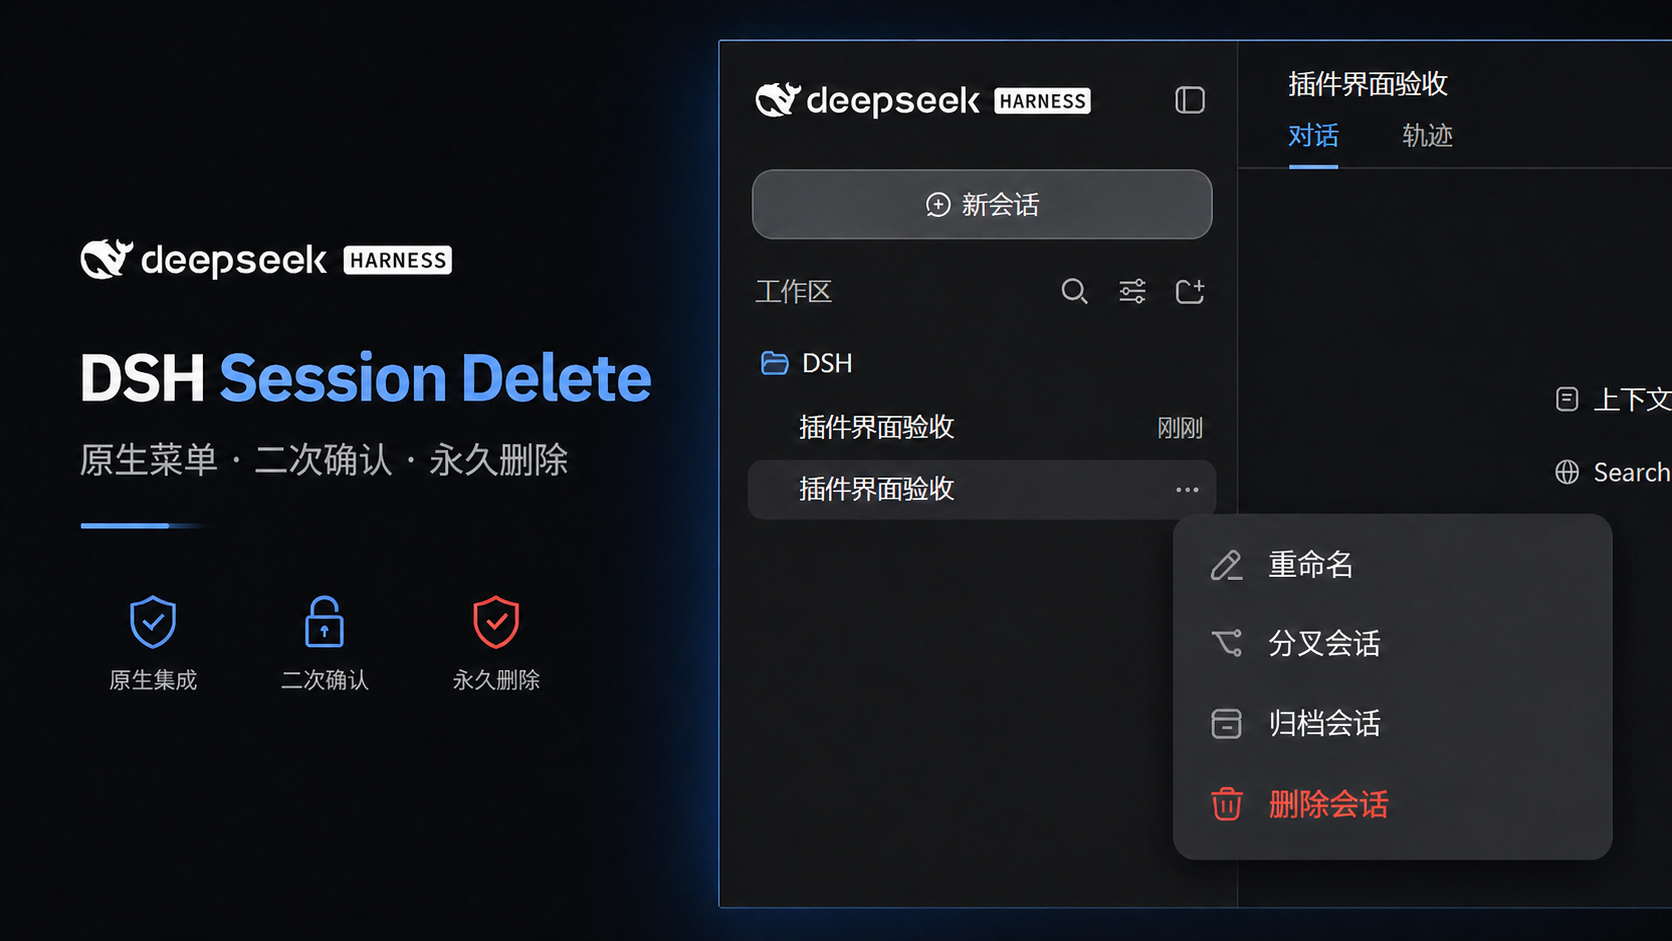
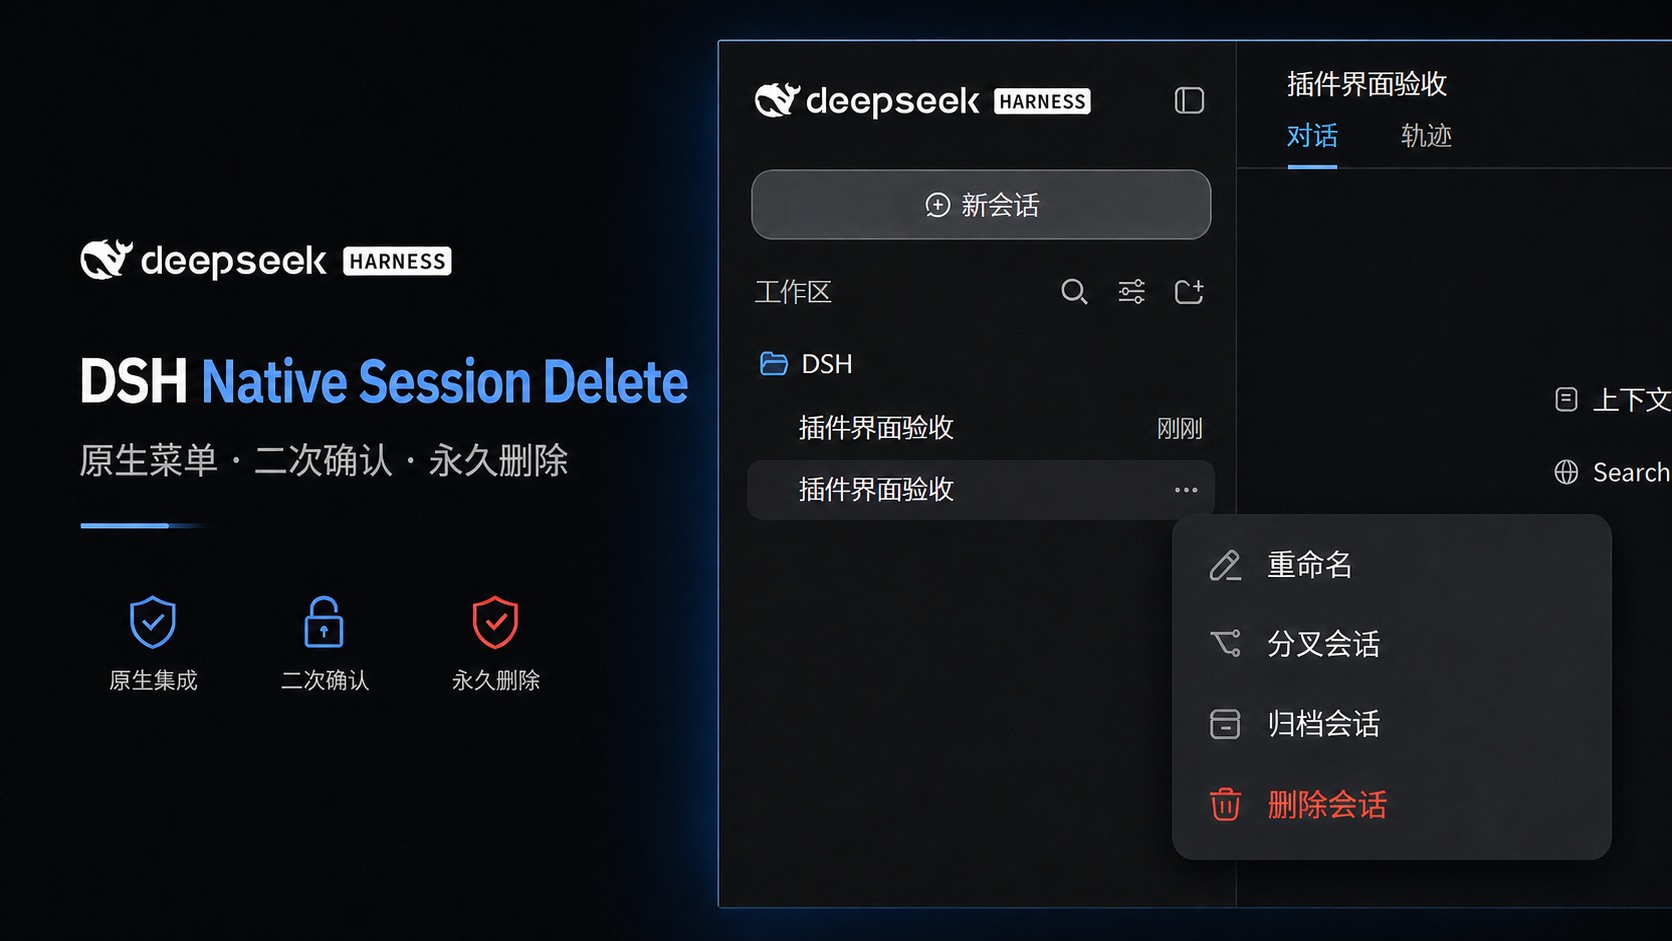
feat: publish native session delete through npm

diff --git a/lib/client.js b/lib/client.js
@@ -1,4 +1,4 @@
-// Modified from @deepseek-ai/dsh-client-ui-workspace 0.1.0-rc.8 by DSH Session Delete. See THIRD_PARTY_NOTICES.md.
+// Modified from @deepseek-ai/dsh-client-ui-workspace 0.1.0-rc.8 by DSH Native Session Delete. See THIRD_PARTY_NOTICES.md.
 window.__ModuleLoader__.load({
 	id: "dsh-native-session-delete",
 	factory: (require) => {

diff --git a/README.en.md b/README.en.md
@@ -1,27 +1,28 @@
 <div align="center">
 
-# DSH Session Delete
+# DSH Native Session Delete
 
 **Bring permanent session deletion to the native DeepSeek Harness menu.**
 
-Native dark menu · Second confirmation · Safe stop for running work · In-place list update
+Native dark menu · Second confirmation · Permanent delete · In-place list update
 
-[![Release](https://img.shields.io/github/v/release/WSL043/dsh-session-delete?display_name=tag&style=flat-square)](https://github.com/WSL043/dsh-session-delete/releases/latest)
-[![Checks](https://img.shields.io/github/actions/workflow/status/WSL043/dsh-session-delete/ci.yml?branch=main&label=checks&style=flat-square)](https://github.com/WSL043/dsh-session-delete/actions/workflows/ci.yml)
+[![Release](https://img.shields.io/github/v/release/WSL043/dsh-native-session-delete?display_name=tag&style=flat-square)](https://github.com/WSL043/dsh-native-session-delete/releases/latest)
+[![Checks](https://img.shields.io/github/actions/workflow/status/WSL043/dsh-native-session-delete/ci.yml?branch=main&label=checks&style=flat-square)](https://github.com/WSL043/dsh-native-session-delete/actions/workflows/ci.yml)
+[![npm](https://img.shields.io/npm/v/dsh-native-session-delete?style=flat-square)](https://www.npmjs.com/package/dsh-native-session-delete)
 [![DSH](https://img.shields.io/badge/DSH-auto--tested-2f81f7?style=flat-square)](#compatibility)
-[![License](https://img.shields.io/github/license/WSL043/dsh-session-delete?style=flat-square)](LICENSE)
+[![License](https://img.shields.io/github/license/WSL043/dsh-native-session-delete?style=flat-square)](LICENSE)
 
 [中文](README.md) · [Install](#install) · [Use](#use) · [Safety boundary](#safety-boundary)
 
 </div>
 
 <p align="center">
-  <img src="docs/assets/hero.en.png" alt="Red Delete session action in the native DeepSeek Harness dark-mode session menu">
+  <img src="https://raw.githubusercontent.com/WSL043/dsh-native-session-delete/v1.0.4/docs/assets/hero.en.png" alt="Red Delete session action in the native DeepSeek Harness dark-mode session menu">
 </p>
 
-| Native | Safe | Smooth |
+| Native | Direct | Smooth |
 | --- | --- | --- |
-| The action lives in the native session menu and keeps Archive available | A second confirmation is required; running work is stopped safely | The list updates in place without reloading the whole DSH page |
+| The action lives in the native session menu and keeps Archive available | A second confirmation permanently deletes the target; running work is stopped first | The list updates in place without reloading the whole DSH page |
 
 ## Install
 
@@ -30,25 +31,22 @@ Native dark menu · Second confirmation · Safe stop for running work · In-plac
 Open PowerShell and paste one line:
 
 ```powershell
-irm 'https://github.com/WSL043/dsh-session-delete/releases/download/v1.0.3/install.ps1' | iex
+irm 'https://github.com/WSL043/dsh-native-session-delete/releases/download/v1.0.4/install.ps1' | iex
 ```
 
 The helper checks the current directory, PATH, `DSH_PORTABLE_ROOT`, Downloads/Desktop/Documents, and up to
 three nested levels below those folders and `LocalAppData\Temp`, then calls the official DSH `plugin add`
 command once. It does not recursively scan disks, install a package manager, snapshot profiles, create a
 resident command, or download the plugin twice. It supports regular DSH and
-[DSH-Portable](https://github.com/WSL043/DSH-Portable); if several copies are found, it stops and asks for an explicit path.
-
-For a Portable copy in a custom location, provide its executable explicitly without a disk scan:
-
-```powershell
-& ([scriptblock]::Create((irm 'https://github.com/WSL043/dsh-session-delete/releases/download/v1.0.3/install.ps1'))) -DshPath 'D:\DSH-Portable\dsh.exe'
-```
+[DSH-Portable](https://github.com/WSL043/DSH-Portable). If it finds one durable installation plus disposable
+copies under Temp, it chooses the durable installation automatically. If several durable installations exist,
+the helper displays their real paths and asks for a number; no command editing or placeholder path is needed.
+If it still finds nothing, enter the actual DSH-Portable folder and rerun the same one-line command.
 
 ### Official CLI (macOS, Linux, or direct review)
 
 ```sh
-dsh plugin --profile web add "dsh-native-session-delete@https://github.com/WSL043/dsh-session-delete/releases/download/v1.0.3/dsh-native-session-delete.tgz"
+dsh plugin --profile web add dsh-native-session-delete@1.0.4
 ```
 
 The helper and direct command use the same standard bundle mechanism. The helper is only a Windows entry
@@ -59,7 +57,7 @@ bundle configuration becomes active.
 
 ### Agent installation
 
-Use the fixed-version [AGENTS.md](https://raw.githubusercontent.com/WSL043/dsh-session-delete/v1.0.3/AGENTS.md).
+Use the fixed-version [AGENTS.md](https://raw.githubusercontent.com/WSL043/dsh-native-session-delete/v1.0.4/AGENTS.md).
 It defines installation, update, acceptance, uninstall, and safety boundaries. Do not use the `main`
 branch document as an installation contract.
 
@@ -71,12 +69,12 @@ branch document as an installation contract.
    **Cancel** to leave it unchanged.
 
 <p align="center">
-  <img src="docs/assets/confirm-delete.en.png" width="560" alt="English dark-mode permanent deletion confirmation dialog">
+  <img src="https://raw.githubusercontent.com/WSL043/dsh-native-session-delete/v1.0.4/docs/assets/confirm-delete.en.png" width="560" alt="English dark-mode permanent deletion confirmation dialog">
   <br><sub>Permanent deletion cannot be undone; the dialog identifies the target session.</sub>
 </p>
 
 Once active, the plugin reuses DSH lifecycle and session-storage capabilities. If work is still running,
-it is stopped safely and allowed to settle before the target session is deleted. The session list then
+it is stopped and allowed to settle before the target session is deleted. The session list then
 updates in place without reloading the whole DSH page.
 
 ## Safety boundary
@@ -119,10 +117,10 @@ Structural upstream changes still require a code fix; automation never guesses a
 
 ## Update and uninstall
 
-Update by rerunning the quick installer or using the new release in the same `add` command. For v1.0.3:
+Update by rerunning the quick installer or installing the new npm version. For v1.0.4:
 
 ```sh
-dsh plugin --profile web add "dsh-native-session-delete@https://github.com/WSL043/dsh-session-delete/releases/download/v1.0.3/dsh-native-session-delete.tgz"
+dsh plugin --profile web add dsh-native-session-delete@1.0.4
 ```
 
 Uninstall removes only this plugin's bundle layer and never deletes sessions:
@@ -137,7 +135,7 @@ workflow after installing, updating, or uninstalling so the configuration is rec
 
 ## Support and license
 
-Open a [GitHub Issue](https://github.com/WSL043/dsh-session-delete/issues) for ordinary problems. Report
+Open a [GitHub Issue](https://github.com/WSL043/dsh-native-session-delete/issues) for ordinary problems. Report
 security issues privately as described in [SECURITY.md](SECURITY.md).
 
 MIT. See [THIRD_PARTY_NOTICES.md](THIRD_PARTY_NOTICES.md) for the modified upstream client and its license

diff --git a/AGENTS.md b/AGENTS.md
@@ -6,13 +6,14 @@ or remove `dsh-native-session-delete` in a selected DeepSeek Harness profile.
 ## Safety and responsibility boundary
 
 - Confirm the target DSH installation and profile. Use `web` only when it is the user's target.
-- Use the fixed v1.0.3 Release assets below; never substitute a moving branch or an unreviewed URL.
+- Use the fixed v1.0.4 package below; never substitute a moving branch or an unreviewed source.
 - Do not print session contents, full profile files, transcript paths, credentials, or other private data.
 - Do not start, stop, or restart DSH without explicit permission.
 - Preserve all sessions, unrelated plugins, and user-owned profile changes.
 - Never delete a session as an installation test unless the user explicitly selects a disposable session
   and confirms the destructive test.
-- If more than one DSH installation is present, ask which installation is the target before changing it.
+- Prefer one durable user installation over disposable copies under `LocalAppData\Temp`. If more than one
+  durable DSH installation remains, ask which installation is the target before changing it.
 
 Permanent deletion is irreversible. The Agent must not claim that this plugin provides secure erasure:
 external attachments, caches, logs, backups, cloud copies, and non-JSONL stores are outside its scope.
@@ -21,16 +22,16 @@ requirements. A cancelled confirmation is the safe default and must not send a d
 
 ## Fixed package and standard bundle
 
-The v1.0.3 package is a standard DSH bundle with a `dsh.bundle` profile patch. Its exact package spec is:
+The v1.0.4 package is a standard DSH bundle with a `dsh.bundle` profile patch. Its exact package spec is:
 
 ```text
-dsh-native-session-delete@https://github.com/WSL043/dsh-session-delete/releases/download/v1.0.3/dsh-native-session-delete.tgz
+dsh-native-session-delete@1.0.4
 ```
 
 The bundle disables the official workspace row while installed and inserts a uniquely identified native
 workspace row. Removing `dsh-native-session-delete` removes that layer, allowing DSH to restore the official
 workspace row. Do not install the tarball under `@deepseek-ai/dsh-client-ui-workspace`; that old aliasing
-approach is not the v1.0.3 contract.
+approach is not the v1.0.4 contract.
 
 ## Detect the target DSH
 
@@ -55,13 +56,13 @@ record the selected profile's relevant metadata before invoking it, without prin
 With an existing `dsh` command, run exactly:
 
 ```sh
-dsh plugin --profile web add "dsh-native-session-delete@https://github.com/WSL043/dsh-session-delete/releases/download/v1.0.3/dsh-native-session-delete.tgz"
+dsh plugin --profile web add dsh-native-session-delete@1.0.4
 ```
 
 With DSH-Portable, run from its root:
 
 ```powershell
-.\dsh.exe plugin --profile web add "dsh-native-session-delete@https://github.com/WSL043/dsh-session-delete/releases/download/v1.0.3/dsh-native-session-delete.tgz"
+.\dsh.exe plugin --profile web add dsh-native-session-delete@1.0.4
 ```
 
 Use the same `add` command to update or repair. On Windows, `install.ps1` from the same fixed Release may
@@ -85,7 +86,7 @@ dsh plugin --profile web list dsh-native-session-delete --depth 0
 Use `.\dsh.exe` in place of `dsh` for DSH-Portable. Static acceptance requires:
 
 1. The `dsh-native-session-delete` bundle appears exactly once in the requested profile.
-2. Its direct package spec is the fixed v1.0.3 Release URL above.
+2. Its direct package spec is the fixed `dsh-native-session-delete@1.0.4` npm version above.
 3. The profile contains the bundle patch and no duplicate official workspace row from this plugin.
 4. No unrelated dependency, profile patch, or session data was changed by the operation.
 
